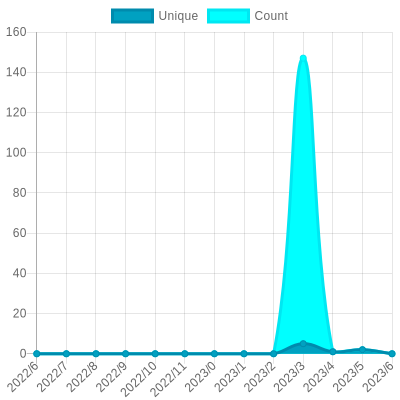
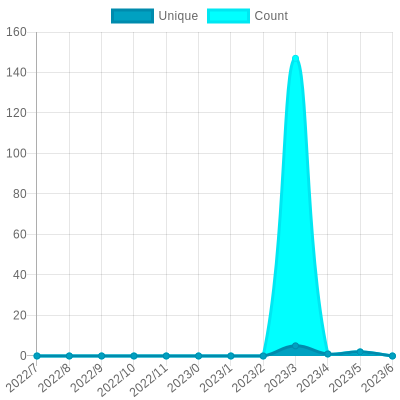
Update views

diff --git a/README.md b/README.md
@@ -26,7 +26,7 @@ The project created and maintained by [gayanvoice](https://github.com/gayanvoice
 			</a>
 		</td>
 		<td>
-			2022/7/29 12:30 AM UTC
+			2022/7/30 12:26 AM UTC
 		</td>
 		<td>
 			9
@@ -37,7 +37,7 @@ The project created and maintained by [gayanvoice](https://github.com/gayanvoice
 	</tr>
 </table>
 
-<small><i>Last updated on 2022/7/31 6:01 PM UTC</i></small>
+<small><i>Last updated on 2022/8/1 12:35 AM UTC</i></small>
 
 ## ✂Copy and 📋 Paste
 ### Total Views Badge

diff --git a/readme/461275909/year.md b/readme/461275909/year.md
@@ -150,21 +150,10 @@
 			<code>0</code>
 		</td>
 	</tr>
-	<tr>
-		<td>
-			<code>2021/7/1</code>
-		</td>
-		<td>
-			<code>0</code>
-		</td>
-		<td>
-			<code>0</code>
-		</td>
-	</tr>
 </table>
 
 </details>
-<small><i>Last updated on 2022/7/31 6:01 PM UTC</i></small>
+<small><i>Last updated on 2022/8/1 12:35 AM UTC</i></small>
 
 ## ✂Copy and 📋 Paste
 ### SVG Badge
